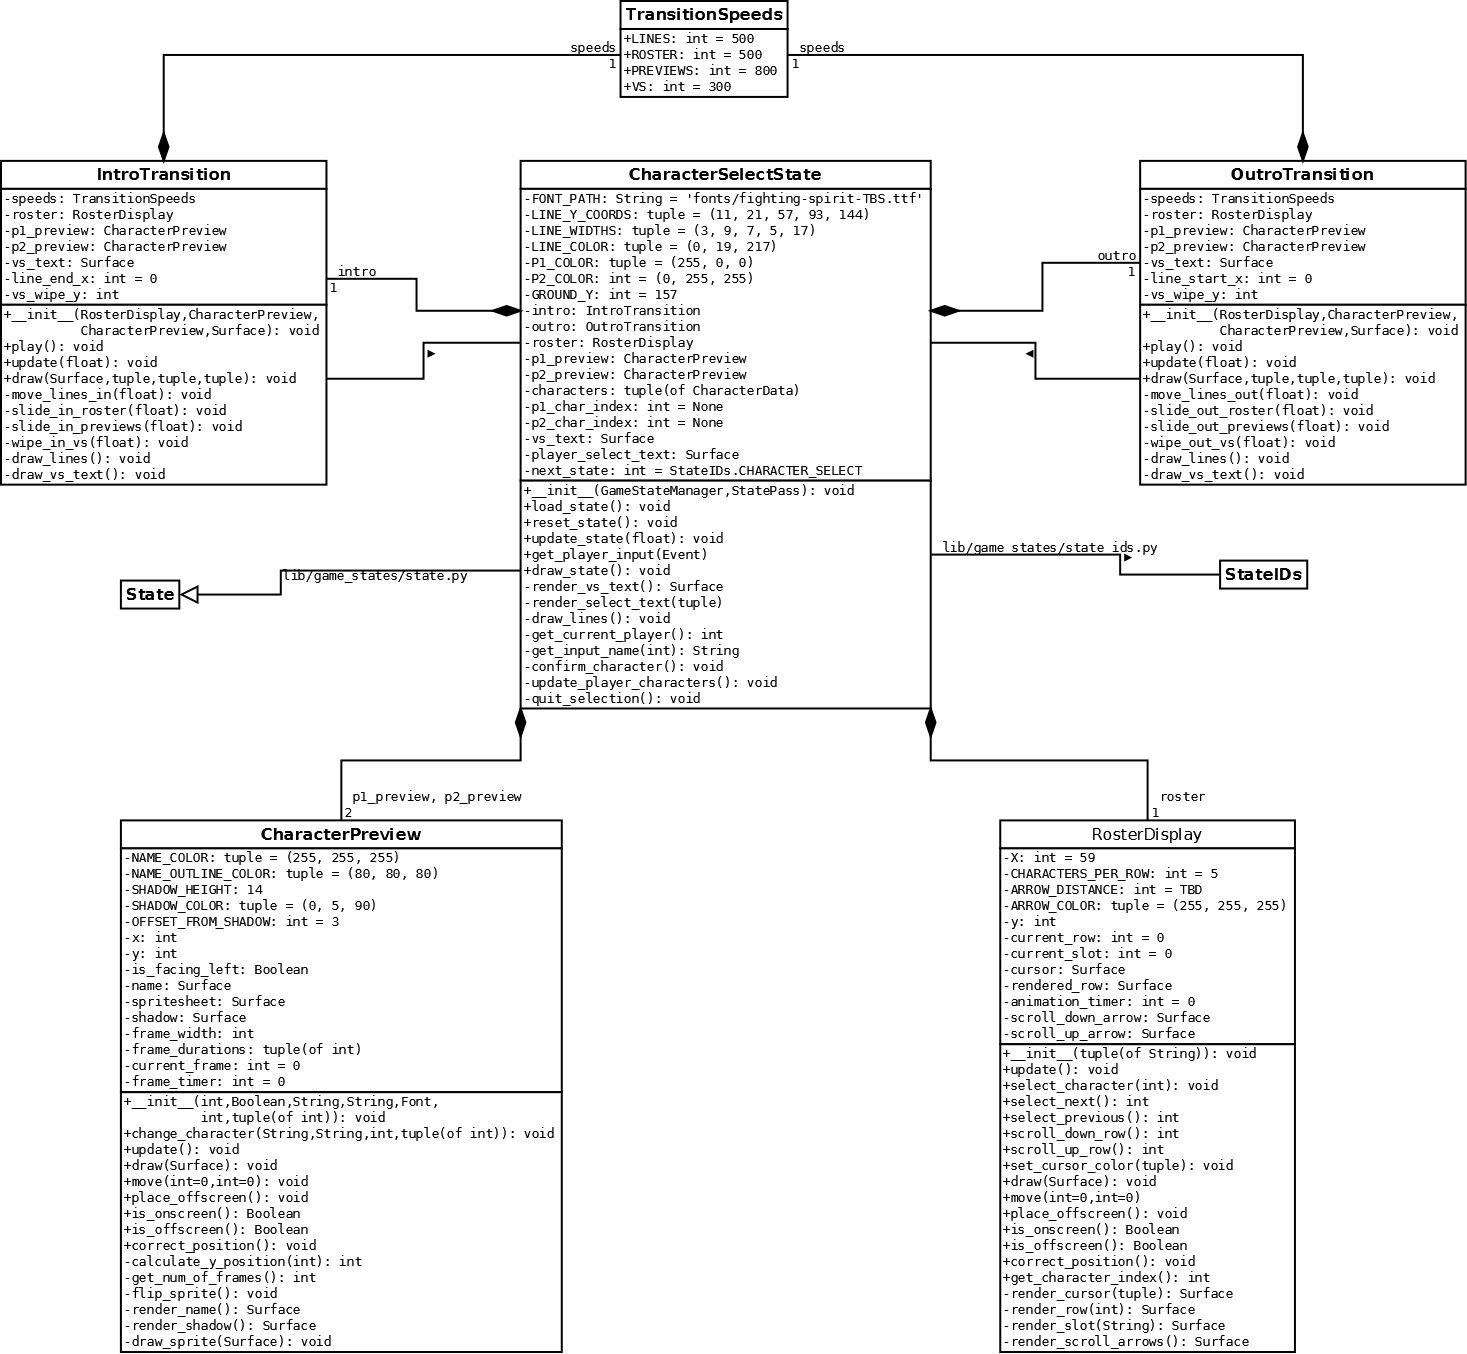
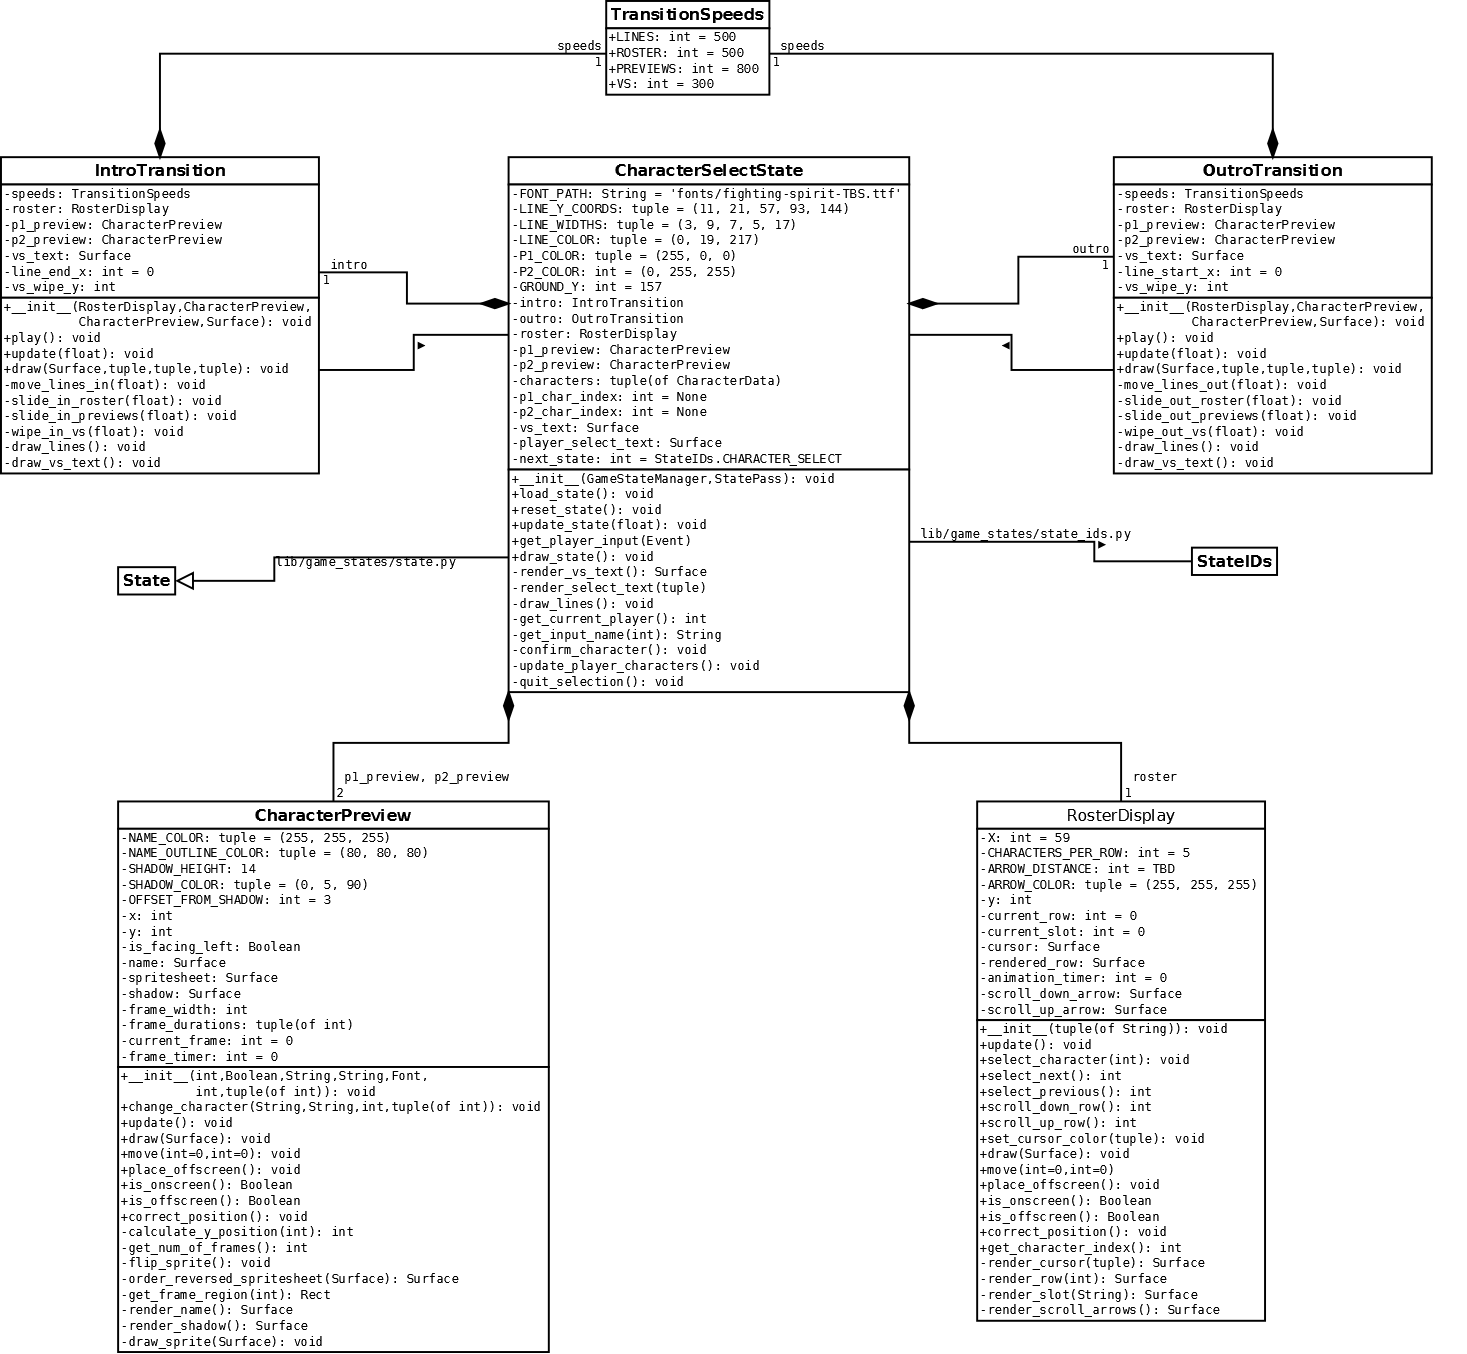
CharacterPreview: Add flip_sprite() + support

diff --git a/lib/game_states/character_select_state.py b/lib/game_states/character_select_state.py
@@ -1,6 +1,7 @@
 import pygame.transform as transform
 from pygame import image
 from pygame.surface import Surface
+from pygame.rect import Rect
 from lib.globals import SCREEN_SIZE
 
 
@@ -72,6 +73,7 @@ class CharacterPreview(object):
                 first animation frame is shown for 10 update cycles,
                 the second frame for 8 update cycles, and so on.
         """
+        self.frame_width = frame_width
         self.frame_durations = frame_durations
         self.spritesheet = image.load(spritesheet_path).convert_alpha()
         self.is_facing_left = is_facing_left
@@ -111,3 +113,53 @@ class CharacterPreview(object):
         animation.
         """
         return len(self.frame_durations)
+
+    def flip_sprite(self):
+        """Alter the sprite sheet so that the character faces in the
+        opposite direction.
+        """
+        flipped_sheet = transform.flip(self.spritesheet, xbool=True,
+                                       ybool=False)
+        self.spritesheet = self.order_reversed_spritesheet(flipped_sheet)
+
+    def order_reversed_spritesheet(self, flipped_sheet):
+        """Reorganize the frames in a flipped sprite sheet so that
+        they are in the same order as the original sheet.
+
+        Args:
+            flipped_sheet: A PyGame Surface containing a flipped sprite
+                sheet.
+
+        Returns:
+            A PyGame Surface containing the sprite sheet with each frame
+            flipped and in the correct order.
+        """
+        flipped_sprite_sheet = Surface((self.spritesheet.get_width(),
+                                        self.spritesheet.get_height()))
+        flipped_sprite_sheet.convert_alpha()
+
+        for frame_index in xrange(0, self.get_num_of_frames()):
+            frame_x = self.frame_width * frame_index
+            old_frame_index = self.get_num_of_frames() - 1 - frame_index
+            old_region = self.get_frame_region(old_frame_index)
+
+            flipped_sprite_sheet.blit(flipped_sheet, (frame_x, 0),
+                                      old_region)
+
+        return flipped_sprite_sheet
+
+    def get_frame_region(self, frame_index):
+        """Get the region occupied by of one of the animation frames
+        within the sprite sheet.
+
+        Args:
+            frame_index: An integer for the index of the desired frame.
+
+        Returns:
+            A Rect containing the frame's position and dimensions within
+            the sprite sheet.
+        """
+        frame_x = self.frame_width * frame_index
+        sheet_height = self.spritesheet.get_height()
+        region = Rect(frame_x, 0, self.frame_width, sheet_height)
+        return region
